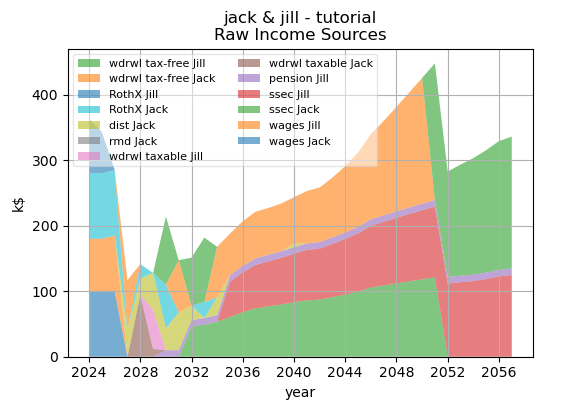
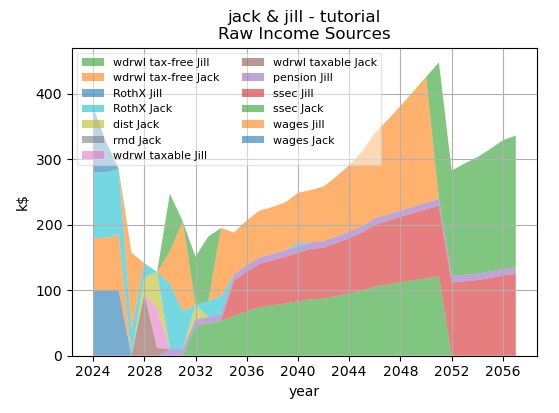
Add balance constraint on withdrwawals

Changed region(s): [[0.0608, 0.0291, 0.9732, 0.9588], [0.0, 0.4649, 0.0608, 0.523]]

diff --git a/owl.py b/owl.py
@@ -768,6 +768,18 @@ class Plan:
                 Au.append(row)
                 uvec.append(rhs)
 
+        # Withdrawals inequalities - it ignores yearly gains.
+        # Obvious but required during wealth transfer between spouses.
+        for i in range(Ni):
+            for j in range(Nj):
+                for n in range(Nn):
+                    row = np.zeros(self.nvars)
+                    rhs = 0
+                    row[_q3(Cw, i, j, n, Ni, Nj, Nn)] = 1
+                    row[_q3(Cb, i, j, n, Ni, Nj, Nn + 1)] = -1
+                    Au.append(row)
+                    uvec.append(rhs)
+
         # Roth conversions equalities/inequalities.
         if 'maxRothConversion' in options:
             if options['maxRothConversion'] == 'file':
@@ -1085,6 +1097,7 @@ class Plan:
             'wdrwl tax-free',
         ]
 
+        '''
         # Reroute (Roth conversions + tax-free withdrawals) == distributions.
         z = np.minimum(self.x_in, self.w_ijn[:, 2, :])
         self.b_ijn[:, 1, :-1] += z
@@ -1092,6 +1105,7 @@ class Plan:
         self.x_in -= z
         self.w_ijn[:, 1, :] += z
         self.w_ijn[:, 2, :] -= z
+        '''
 
         self.rmd_in = self.rho_in * self.b_ijn[:, 1, :-1]
         self.dist_in = self.w_ijn[:, 1, :] - self.rmd_in
